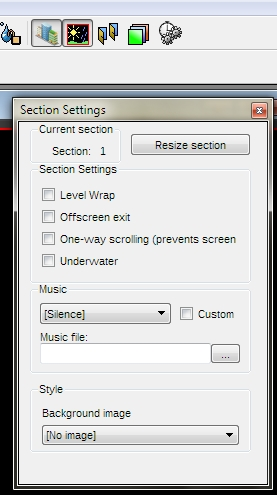
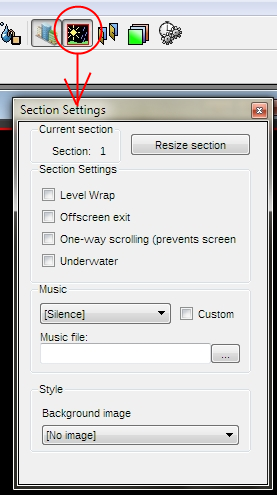
Little fixes

Changed region(s): [[0.1733, 0.0, 0.3466, 0.2121], [0.3466, 0.0303, 0.3755, 0.0909]]

diff --git a/Content/help/manual_editor.html b/Content/help/manual_editor.html
@@ -45,7 +45,7 @@
 			<ul>
 				<li>
 				<p style="text-align: left">
-				<a href="editorgui/menu.html#Creation_of_new_file">Creation of new file</a></p>
+				<a href="editorgui/menu.html#Creation_of_new_file">Creation of a new file</a></p>
 				</li>
 				<li>
 				<p style="text-align: left">
@@ -161,10 +161,12 @@
 		<p style="text-align: left"><a href="levelediting/sections.html">Sections</a></p>
 		<ul>
 			<li>
-			<p style="text-align: left">Set Settings</p>
+			<p style="text-align: left">
+			<a href="levelediting/sections_settings.html">Set Settings</a></p>
 			</li>
 			<li>
-			<p style="text-align: left">Resize</p>
+			<p style="text-align: left">
+			<a href="levelediting/sections_resize.html">Resize</a></p>
 			</li>
 		</ul>
 		</li>

diff --git a/Content/help/levelediting/sections.html b/Content/help/levelediting/sections.html
@@ -47,7 +47,11 @@ another section:</p>
 to instant return to left-bottom or left-top current section's corner. On 
 switching between sections, your last position will be saved, and on switching 
 back will be restored in same coordinates.</p>
+<p style="text-align: left">&nbsp;</p>
+<p style="text-align: center">Section settings toolbox</p>
 <p style="text-align: center">&nbsp;</p>
+<p style="text-align: center">
+<img alt="" height="495" src="../screenshots/LevelEditing/Section/0toolbox_section.png" width="277" /></p>
 <p style="text-align: center">&nbsp;</p>
 <p style="text-align: center">&nbsp;</p>
 <p style="text-align: center">&nbsp;</p>

diff --git a/Content/help/editorgui/menu.html b/Content/help/editorgui/menu.html
@@ -16,7 +16,7 @@
 <p style="text-align: left">
 <img alt="" height="295" src="../screenshots/004_newFile.png" width="402" /></p>
 <p style="text-align: left; text-decoration: underline;">
-<a name="Creation_of_new_file">Creation of new file</a></p>
+<a name="Creation_of_new_file">Creation of a new file</a></p>
 <p style="text-align: left">Create a new file.</p>
 <p style="text-align: left">&nbsp;</p>
 <p style="text-align: left; text-decoration: underline;">

diff --git a/Content/help/levelediting/item_toolbox.html b/Content/help/levelediting/item_toolbox.html
@@ -4,7 +4,7 @@
 <head>
 <meta content="en-us" http-equiv="Content-Language" />
 <meta content="text/html; charset=utf-8" http-equiv="Content-Type" />
-<title>Platformer Game Engine - Editor, </title>
+<title>Platformer Game Engine - Editor | Level editing > Item toolbox </title>
 <link rel="stylesheet" type="text/css" href="../style.css" />
 </head>
 

diff --git a/Content/help/levelediting/about.html b/Content/help/levelediting/about.html
@@ -4,7 +4,7 @@
 <head>
 <meta content="en-us" http-equiv="Content-Language" />
 <meta content="text/html; charset=utf-8" http-equiv="Content-Type" />
-<title>Platformer Game Engine - Editor, </title>
+<title>Platformer Game Engine - Editor | Level editing > About</title>
 <link rel="stylesheet" type="text/css" href="../style.css" />
 </head>
 
